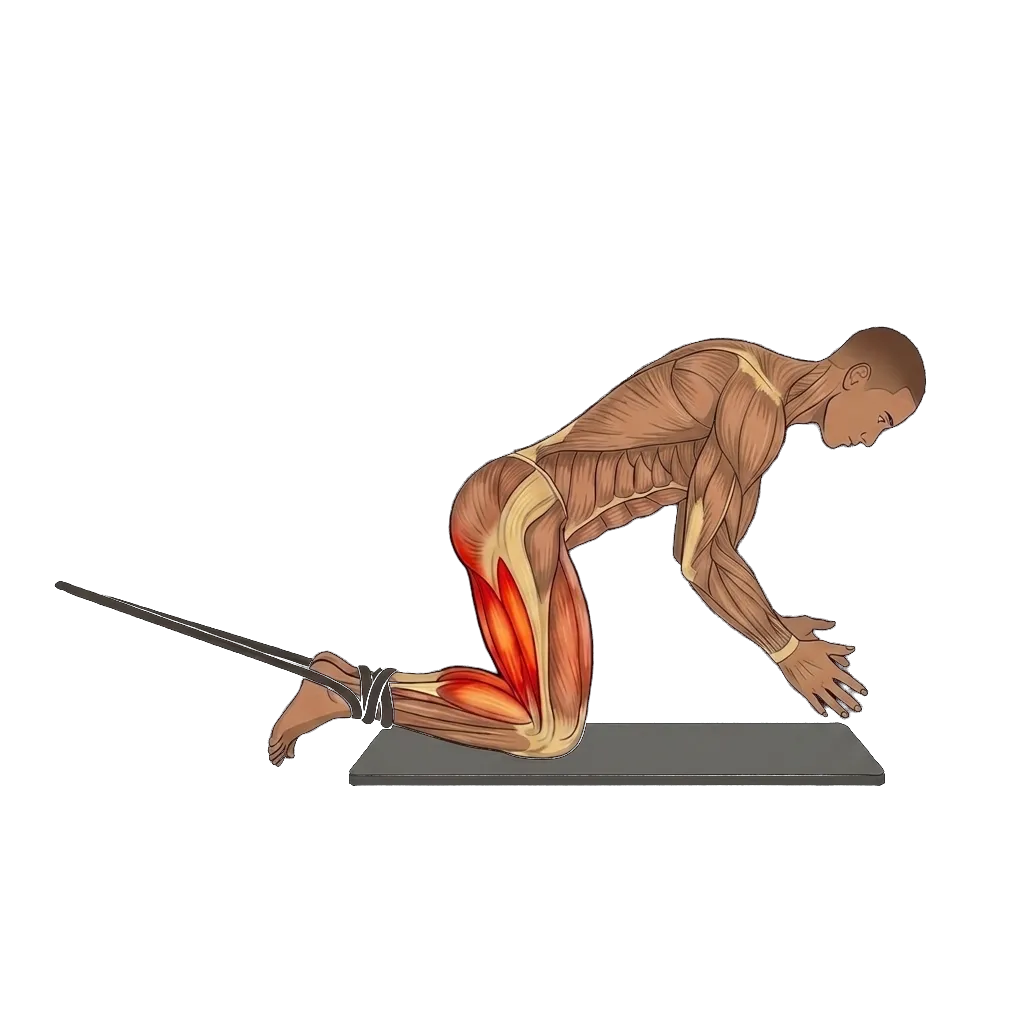
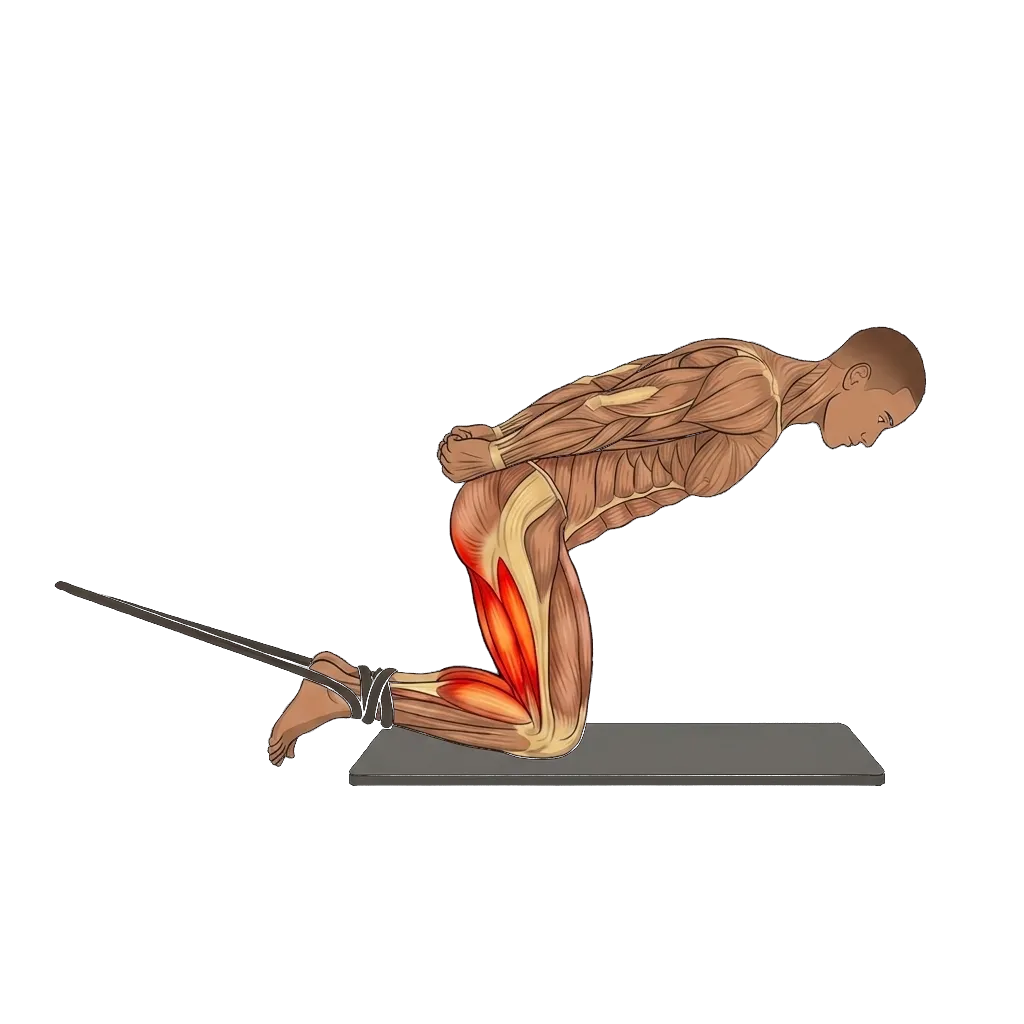
fix(assets): use Full Nordic Curl unassisted image for Nordic Curl (Eccentric Only)

diff --git a/exercise_comparison.html b/exercise_comparison.html
@@ -2027,8 +2027,8 @@
                   <span>🖼 תמונה מציגה (איור אנטומי)</span>
                   <span style="font-size: 0.72rem; opacity: 0.8;">תצוגה סטטית</span>
                 </div>
-                <div class="media-container" onclick="openLightbox('${ex.img}?v=20261023_v2')" title="לחץ להגדלה במסך מלא">
-                  <img src="${ex.img}?v=20261023_v2" alt="${ex.nameEn} Static" loading="lazy">
+                <div class="media-container" onclick="openLightbox('${ex.img}?v=20261023_v3')" title="לחץ להגדלה במסך מלא">
+                  <img src="${ex.img}?v=20261023_v3" alt="${ex.nameEn} Static" loading="lazy">
                   <span class="media-zoom-hint">🔍 לחץ להגדלה</span>
                 </div>
               </div>
@@ -2039,8 +2039,8 @@
                   <span>🎬 אנימציית תנועה (GIF מונפש)</span>
                   <span style="font-size: 0.72rem; opacity: 0.8;">לולאת תנועה</span>
                 </div>
-                <div class="media-container" onclick="openLightbox('${ex.gif}?v=20261023_v2')" title="לחץ להגדלה במסך מלא">
-                  <img src="${ex.gif}?v=20261023_v2" alt="${ex.nameEn} GIF" loading="lazy">
+                <div class="media-container" onclick="openLightbox('${ex.gif}?v=20261023_v3')" title="לחץ להגדלה במסך מלא">
+                  <img src="${ex.gif}?v=20261023_v3" alt="${ex.nameEn} GIF" loading="lazy">
                   <span class="media-zoom-hint">🔍 לחץ להגדלה</span>
                 </div>
               </div>

diff --git a/scripts/build_full_exercise_catalog.py b/scripts/build_full_exercise_catalog.py
@@ -2062,8 +2062,8 @@ HTML_TEMPLATE = """<!DOCTYPE html>
                   <span>🖼 תמונה מציגה (איור אנטומי)</span>
                   <span style="font-size: 0.72rem; opacity: 0.8;">תצוגה סטטית</span>
                 </div>
-                <div class="media-container" onclick="openLightbox('${ex.img}?v=20261023_v2')" title="לחץ להגדלה במסך מלא">
-                  <img src="${ex.img}?v=20261023_v2" alt="${ex.nameEn} Static" loading="lazy">
+                <div class="media-container" onclick="openLightbox('${ex.img}?v=20261023_v3')" title="לחץ להגדלה במסך מלא">
+                  <img src="${ex.img}?v=20261023_v3" alt="${ex.nameEn} Static" loading="lazy">
                   <span class="media-zoom-hint">🔍 לחץ להגדלה</span>
                 </div>
               </div>
@@ -2074,8 +2074,8 @@ HTML_TEMPLATE = """<!DOCTYPE html>
                   <span>🎬 אנימציית תנועה (GIF מונפש)</span>
                   <span style="font-size: 0.72rem; opacity: 0.8;">לולאת תנועה</span>
                 </div>
-                <div class="media-container" onclick="openLightbox('${ex.gif}?v=20261023_v2')" title="לחץ להגדלה במסך מלא">
-                  <img src="${ex.gif}?v=20261023_v2" alt="${ex.nameEn} GIF" loading="lazy">
+                <div class="media-container" onclick="openLightbox('${ex.gif}?v=20261023_v3')" title="לחץ להגדלה במסך מלא">
+                  <img src="${ex.gif}?v=20261023_v3" alt="${ex.nameEn} GIF" loading="lazy">
                   <span class="media-zoom-hint">🔍 לחץ להגדלה</span>
                 </div>
               </div>
